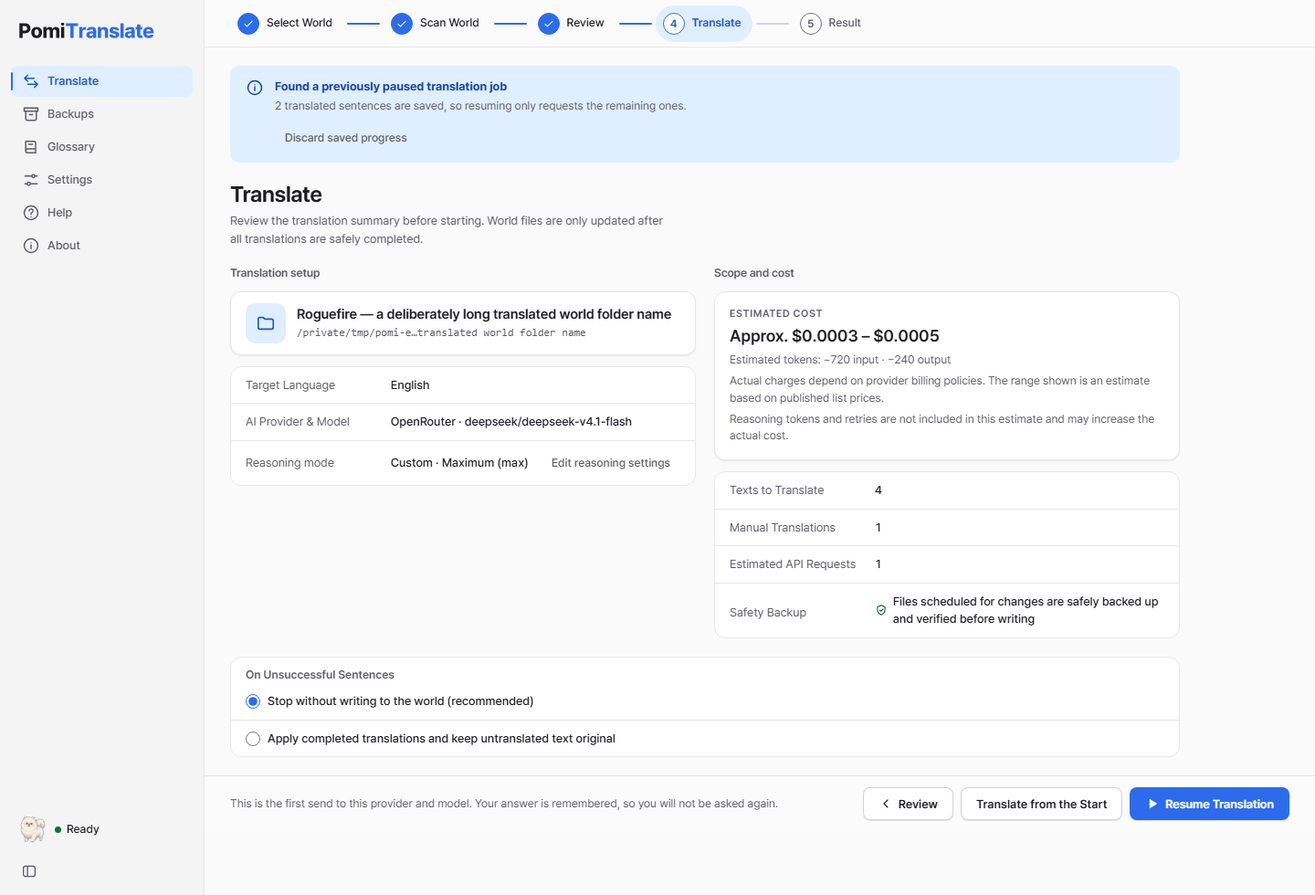
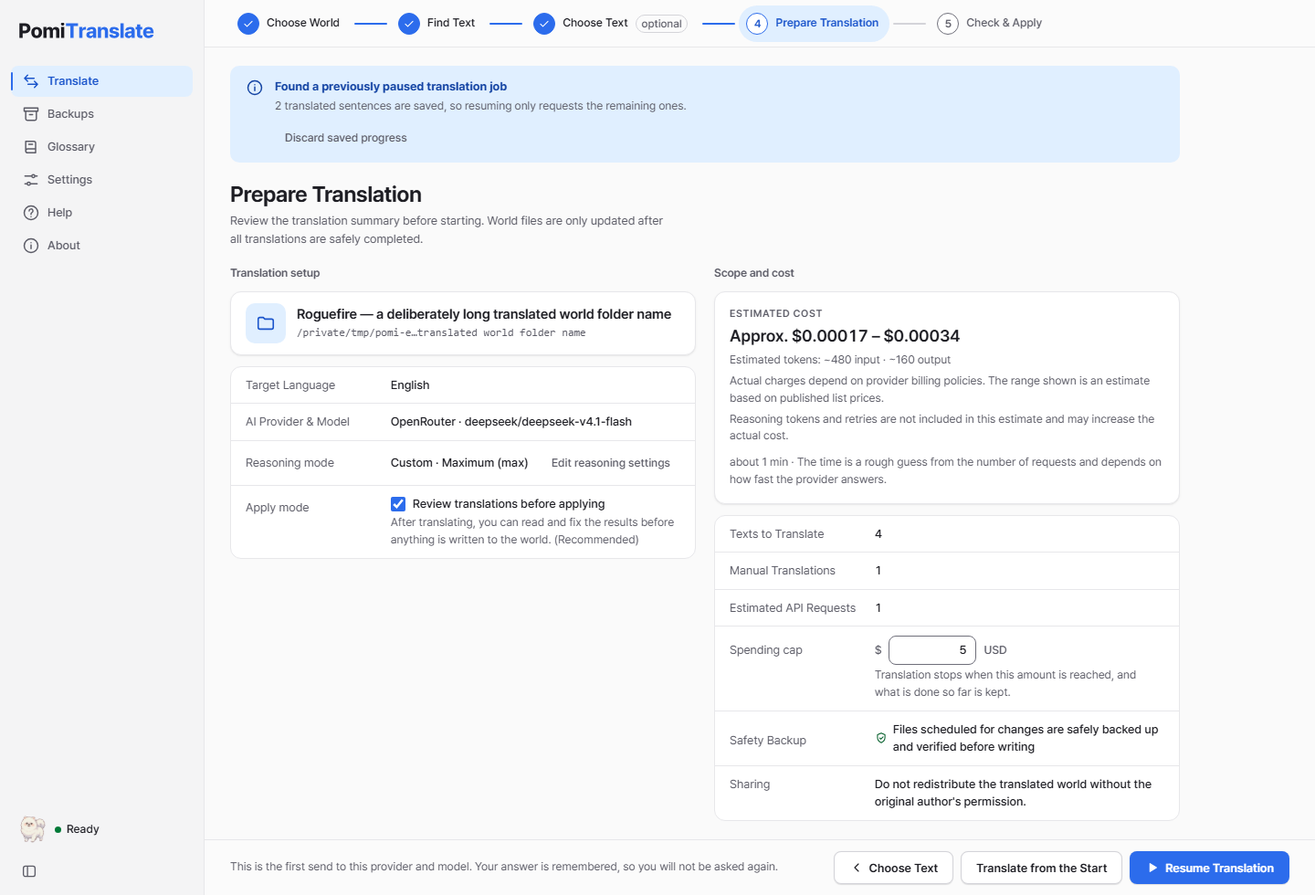
Docs: recapture the 12 screenshots from the merged UI; give the settings groups their own headings
The capture script follows the merged step names and settings tabs, and all
four languages are captured in one run (Windows 10 / Playwright Chromium, no
external requests), so the manifest now records a single capture. The
screenshots showed two duplicated headings in Settings: the style group's
heading was the same text as its first field, and the zh price group heading
repeated the input-price label. Each group now has its own heading in
ko/en/ja/zh.

diff --git a/scripts/capture-docs.playwright.js b/scripts/capture-docs.playwright.js
@@ -3,17 +3,22 @@
 // The preview entry is synthetic: never read credentials or press Start translation.
 async (page) => {
   const settle = async () => {
+    // Park the pointer on an empty part of the toolbar so no hover colour lands in the shot.
+    await page.mouse.move(1000, 26);
     await page.evaluate(async () => {
       await document.fonts.ready;
       await new Promise((resolve) => requestAnimationFrame(() => requestAnimationFrame(resolve)));
       await Promise.all(document.getAnimations().filter((animation) => animation.effect?.getTiming().iterations !== Infinity).map((animation) => animation.finished.catch(() => {})));
     });
   };
+  // Names come from the UI catalog (src/lib/i18n/{ko,en,ja,zh}.ts): nav.workspace, nav.settings, step.review, step.run,
+  // settings.tab.translate, settings.advanced.title, settings.reasoning.custom, common.save. `manual` is the synthetic
+  // translation of the second fixture row (tests/frontend/tauri-fixture-init.js).
   const locales = {
-    ko: { review: '후보 검토', settings: '환경 설정', workflow: '번역 작업', run: '번역 진행', custom: '직접 설정', save: '저장', manual: '잃어버린 열쇠 상점' },
-    en: { review: 'Review', settings: 'Settings', workflow: 'Translate', run: 'Translate', custom: 'Custom', save: 'Save', manual: 'The Lost Key Shop' },
-    ja: { review: '候補の確認', settings: '設定', workflow: '翻訳作業', run: '翻訳実行', custom: '指定する', save: '保存', manual: '失われた鍵の店' },
-    zh: { review: '候选文本检查', settings: '设置', workflow: '翻译', run: '翻译', custom: '自定义', save: '保存', manual: '失落的钥匙商店' },
+    ko: { workflow: '번역 작업', settings: '환경 설정', review: '번역할 문장 고르기', run: '번역 준비', tab: '번역', advanced: '고급 번역 옵션', custom: '직접 설정', save: '저장', manual: '잃어버린 열쇠 상점' },
+    en: { workflow: 'Translate', settings: 'Settings', review: 'Choose Text', run: 'Prepare Translation', tab: 'Translation', advanced: 'Advanced translation options', custom: 'Custom', save: 'Save', manual: 'The Lost Key Shop' },
+    ja: { workflow: '翻訳作業', settings: '設定', review: '翻訳する文を選ぶ', run: '翻訳の準備', tab: '翻訳', advanced: '翻訳の詳細オプション', custom: '指定する', save: '保存', manual: '失われた鍵の店' },
+    zh: { workflow: '翻译', settings: '设置', review: '选择要翻译的文本', run: '翻译准备', tab: '翻译', advanced: '高级翻译选项', custom: '自定义', save: '保存', manual: '失落的钥匙商店' },
   };
   const externalRequests = [];
   const onRequest = (request) => {
@@ -27,23 +32,31 @@ async (page) => {
       await page.goto(`http://127.0.0.1:5199/tests/frontend/preview.html?scenario=review&model=deepseek/deepseek-v4.1-flash&locale=${locale}&theme=light`);
       await page.locator('.boot').waitFor({ state: 'hidden' });
       if (await page.locator('html').getAttribute('lang') !== locale) throw new Error(`Wrong document language: ${locale}`);
-      await page.locator('header nav').getByRole('button', { name: new RegExp(`^${labels.review}`) }).click();
-      await page.locator('tr[data-index="1"]').click();
+      const steps = page.getByRole('navigation').filter({ has: page.getByRole('button', { name: new RegExp(`^${labels.review}`) }) });
+      await steps.getByRole('button', { name: new RegExp(`^${labels.review}`) }).click();
+      await page.locator('[data-index="1"]').click();
       await page.locator('#manual-translation').waitFor({ state: 'visible' });
       if (await page.locator('#manual-translation').inputValue() !== labels.manual) throw new Error(`Wrong manual translation: ${locale}`);
       await settle();
       await page.screenshot({ path: `docs/images/locales/${locale}/review.png` });
 
       await page.locator('.sidebar').getByRole('button', { name: labels.settings, exact: true }).click();
+      await page.getByRole('tab', { name: labels.tab, exact: true }).click();
+      const advanced = page.getByRole('button', { name: new RegExp(`^${labels.advanced}`) });
+      if (await advanced.getAttribute('aria-expanded') !== 'true') await advanced.click();
       await page.getByRole('radio', { name: labels.custom, exact: true }).check();
       await page.locator('#openrouter-reasoning').selectOption('max');
-      await page.locator('main').evaluate((element) => { element.scrollTop = 0; });
+      await page.locator('#translate-advanced').evaluate((element) => {
+        const main = element.closest('main');
+        main.scrollTop += element.getBoundingClientRect().top - main.getBoundingClientRect().top - 24;
+      });
       await settle();
       await page.screenshot({ path: `docs/images/locales/${locale}/settings.png` });
       await page.getByRole('button', { name: labels.save, exact: true }).click();
       await page.locator('.sidebar').getByRole('button', { name: labels.workflow, exact: true }).click();
-      await page.locator('header nav').getByRole('button', { name: new RegExp(`^${labels.run}`) }).click();
-      await page.locator('#summary-title').waitFor({ state: 'visible' });
+      await steps.getByRole('button', { name: new RegExp(`^${labels.run}`) }).click();
+      // The recommended $5 cap: it is the button of the unset-cap notice, and setting it makes the whole page fit above the action bar.
+      await page.getByRole('button', { name: /5\.00/ }).click();
       await page.locator('.toast').waitFor({ state: 'hidden' });
       await page.locator('main').evaluate((element) => { element.scrollTop = 0; });
       await settle();
@@ -53,7 +66,7 @@ async (page) => {
       if (await page.evaluate(() => document.documentElement.scrollWidth > innerWidth + 1)) throw new Error(`Horizontal overflow: ${locale}`);
     }
     if (externalRequests.length) throw new Error(`Unexpected external requests: ${externalRequests.join(', ')}`);
-    return { locales: Object.keys(locales), screenshots: 9, externalRequests: 0, paidRequests: 0, viewport: '1440x980' };
+    return { locales: Object.keys(locales), screenshots: 12, externalRequests: 0, paidRequests: 0, viewport: '1440x980' };
   } finally {
     page.off('request', onRequest);
   }

diff --git a/src/lib/i18n/zh.ts b/src/lib/i18n/zh.ts
@@ -510,6 +510,7 @@ export const zh: Record<MessageKey, string> = {
   "settings.language.title": "语言与语气",
   "settings.language.target": "目标语言",
   "settings.language.targetHelp": "例如：中文、English、日本語",
+  "settings.style.title": "翻译风格",
   "settings.style.label": "语气与风格预设",
   "settings.style.neutral": "标准 / 自然（推荐）",
   "settings.style.casual": "随意 / 对话式",
@@ -1631,7 +1632,7 @@ export const zh: Record<MessageKey, string> = {
   "glossary.warning": "请检查 {count} 个不符合术语规则的句子。",
   "translationReview.state.glossaryMismatch": "术语检查",
   "translationReview.state.glossaryMismatch.label": "需要检查术语",
-  "settings.price.title": "输入价格（USD / 1M tokens）",
+  "settings.price.title": "手动输入价格（USD / 1M tokens）",
   "settings.price.subtitle": "仅对所选提供商和模型生效。",
   "settings.price.input": "输入价格（USD / 1M tokens）",
   "settings.price.output": "输出价格（USD / 1M tokens）",

diff --git a/src/lib/i18n/ja.ts b/src/lib/i18n/ja.ts
@@ -510,6 +510,7 @@ export const ja: Record<MessageKey, string> = {
   "settings.language.title": "言語と文体",
   "settings.language.target": "翻訳先言語",
   "settings.language.targetHelp": "例: 日本語、한국어、English",
+  "settings.style.title": "翻訳の文体",
   "settings.style.label": "基本文体プリセット",
   "settings.style.neutral": "標準・自然（推奨）",
   "settings.style.casual": "親しみやすい会話調",

diff --git a/src/lib/i18n/en.ts b/src/lib/i18n/en.ts
@@ -510,6 +510,7 @@ export const en: Record<MessageKey, string> = {
   "settings.language.title": "Language & Tone",
   "settings.language.target": "Target Language",
   "settings.language.targetHelp": "e.g. 한국어, English, 日本語",
+  "settings.style.title": "Translation style",
   "settings.style.label": "Tone & Style Preset",
   "settings.style.neutral": "Standard / Natural (Recommended)",
   "settings.style.casual": "Casual / Conversational",

diff --git a/src/lib/i18n/ko.ts b/src/lib/i18n/ko.ts
@@ -510,6 +510,7 @@ export const ko = {
   "settings.language.title": "번역 언어 및 문체",
   "settings.language.target": "도착 언어 (번역 대상 언어)",
   "settings.language.targetHelp": "예: 한국어, English, 日本語",
+  "settings.style.title": "번역 문체",
   "settings.style.label": "기본 문체",
   "settings.style.neutral": "표준/자연스러움 (권장)",
   "settings.style.casual": "친근함/대화체",

diff --git a/src/components/settings/TranslateTab.svelte b/src/components/settings/TranslateTab.svelte
@@ -254,7 +254,7 @@
   </div>
 
   <div class="sf-group" id="style-settings">
-    <h3>{t('settings.style.label')}</h3>
+    <h3>{t('settings.style.title')}</h3>
     <div class="sf-fields sf-two">
       <div class="sf-field">
         <label class="sf-label" for="style-preset">{t('settings.style.label')}</label>

diff --git a/docs/images/README.md b/docs/images/README.md
@@ -1,17 +1,15 @@
 # Documentation screenshots / 소개용 화면
 
-2026-10-23 현재 Svelte 제품 UI를 Windows 10의 Playwright/Chromium으로 한국어·영어·일본어에서 캡처했고(2026-10-02 화면은 환경 설정이 "번역"·"앱" 두 부분으로 나뉘기 전, 용어집이 생기기 전의 것이었습니다), 중국어(간체) 3장은 2026-10-04 macOS의 Playwright/Chromium 캡처입니다. 모든 언어가 동일한 합성 fixture와 1440×980 viewport, light theme을 사용했습니다. 화면을 다시 그린 목업이 아닙니다. UI의 번역된 버튼·제목·입력 안내와 언어별 수동 번역 예시를 확인했습니다.
+2026-10-24 병합된 Svelte 제품 UI(`improve/commercial-readiness`에 main의 UX 개편과 리뷰 수정 WIP를 합친 소스)를 Windows 10의 Playwright/Chromium으로 한국어·영어·일본어·중국어(간체) 네 언어에서 한 번에 캡처했습니다. 모든 언어가 동일한 합성 fixture와 1440×980 viewport, light theme을 사용했습니다. 화면을 다시 그린 목업이 아닙니다. UI의 번역된 버튼·제목·입력 안내와 언어별 수동 번역 예시를 확인했습니다.
 
-**2026-10-24 병합 주의:** `improve/commercial-readiness`에 main의 2026-10-04 UX 개편과 2026-10-11 리뷰 수정 WIP를 합쳤습니다. 한국어·영어·일본어 화면은 병합 전 commercial-readiness UI이고 중국어 화면은 병합 전 main의 UX 개편 UI입니다. 따라서 이 12장은 병합된 UI와 일치하지 않을 수 있으며, 병합된 UI가 안정되면 [localization.md](../localization.md)의 절차로 네 언어를 함께 다시 캡처하고 manifest를 갱신해야 합니다.
-
-Captured from the current Svelte UI with synthetic data. These are browser screenshots, not evidence of native installation, actual provider usage or support for a specific model. The Korean, English and Japanese screens were captured on 2026-10-23 and the Simplified Chinese screens on 2026-10-04 (see the merge note above and the `captures` list in the manifest).
+Captured from the merged Svelte UI with synthetic data, all four languages in one run on 2026-10-24 (Windows 10, Playwright Chromium). These are browser screenshots, not evidence of native installation, actual provider usage or support for a specific model. Earlier captures (Korean/English/Japanese from 2026-10-23 and Simplified Chinese from 2026-10-04) came from the two pre-merge UIs and were replaced; the manifest's `captures` list now records one date, environment and source hash for all twelve.
 
 - Entry: `/tests/frontend/preview.html?scenario=review&model=deepseek/deepseek-v4.1-flash&locale={ko|en|ja|zh}&theme=light`.
-- `review.png`: candidate review / 후보 검색·직접 번역 편집.
-- `settings.png`: Settings, Translation tab: provider, model and custom reasoning / 환경 설정 "번역" 탭: 제공사·모델·직접 추론·저장되지 않은 변경. 모델 목록 불러오기 단추와 번역/앱 탭, 하단 저장 영역이 보입니다.
-- `run.png`: pre-run confirmation, with the saved-progress notice of an interrupted job / 추론·요청 수·추정 비용·외부 전송 안내와 이어하기 안내. 번역 시작은 누르지 않았습니다.
+- `review.png`: step 3, choose text to translate, with one row selected and its custom translation visible / 3단계 "번역할 문장 고르기": 한 문장을 고르고 직접 번역을 입력한 모습.
+- `settings.png`: Settings, Translation tab, "Advanced translation options" open with Custom reasoning (max) selected and the unsaved-changes bar / 환경 설정 "번역" 탭의 "고급 번역 옵션": 추론 방식 "직접 설정"·최대 강도와 저장하지 않은 변경 표시줄.
+- `run.png`: step 4, prepare translation (not started), with the interrupted-work notice, the $5 cost limit, estimate and safety backup / 4단계 "번역 준비": 이어하기 안내, 비용 한도 US$5, 예상 비용, 안전 백업. 번역 시작은 누르지 않았습니다.
 - Source world names, paths, models, prices and saved-key badges are synthetic. No real keys or private worlds were read. Foreign source strings and technical IDs remain original.
-- Capture waited for fonts, page transitions and save notifications. External requests0, paid requests0, scan/translation/restore jobs0; viewport overflow0. Three earlier Korean URLs are refreshed aliases of this capture.
+- Capture waited for fonts, page transitions and save notifications. External requests 0, paid requests 0, scan/translation/restore jobs 0; viewport overflow 0. Three earlier Korean URLs are refreshed aliases of this capture.
 
 ## Language gallery / 언어별 화면
 
@@ -24,21 +22,21 @@ Captured from the current Svelte UI with synthetic data. These are browser scree
 
 ## Capture manifest / 파일 정보
 
-All screenshots are 1440×980. Source-input hash (of the ko/en/ja capture), per-capture dates, aliases and PNG hashes are recorded in [manifest.json](manifest.json). Regeneration commands and scope are in [localization.md](../localization.md).
+All screenshots are 1440×980. Source-input hash, the capture date and environment (`captures`), aliases and PNG hashes are recorded in [manifest.json](manifest.json). Regeneration commands and scope are in [localization.md](../localization.md).
 
 | File | UI locale | Bytes | SHA-256 |
 | --- | --- | --- | --- |
[24 lines of base64/hex data omitted]
 
 `review.png`, `settings.png`, `run.png` at this directory's root are byte-identical aliases of `locales/ko/` for existing links. General screenshots, traces, reports, worlds, credentials and caches stay ignored under `output/`. Only these curated synthetic documentation screenshots are intentionally tracked.

diff --git a/docs/localization.md b/docs/localization.md
@@ -56,8 +56,8 @@ node scripts/update-docs-image-manifest.mjs
 playwright-cli --session=pomi-l10n close
 ```
 
-캡처 entry는 `locale=ko|en|ja|zh`를 검증하고(`scripts/capture-docs.playwright.js`의 언어 표에도 zh가 있습니다), 각 언어의 UI·도착 언어·합성 수동 번역을 초기화합니다. 언어 전환이 실제 번역 대상의 지원을 확장한다는 뜻은 아닙니다. 캡처는 Review→Settings→Run까지만 이동하며 스캔·번역·복원을 시작하지 않습니다. 글꼴·화면 전환·저장 알림이 끝난 뒤 찍고 외부 요청·실행 요청·가로 overflow를 확인합니다. 파일 생성 후 모든 화면을 직접 검토해 빈 화면·잘림·비밀·개인 경로를 확인합니다.
+캡처 entry는 `locale=ko|en|ja|zh`를 검증하고(`scripts/capture-docs.playwright.js`의 언어 표에도 zh가 있습니다), 각 언어의 UI·도착 언어·합성 수동 번역을 초기화합니다. 언어 전환이 실제 번역 대상의 지원을 확장한다는 뜻은 아닙니다. 캡처는 "번역할 문장 고르기"(3단계)에서 한 문장을 고르고 → 환경 설정 "번역" 탭의 "고급 번역 옵션"에서 추론 방식 "직접 설정"·최대 강도를 고른 뒤 저장하고 → "번역 준비"(4단계)에서 권장 US$5 비용 한도를 설정하는 데까지만 이동하며 스캔·번역·복원을 시작하지 않습니다. 단추·탭·단계 이름은 UI 카탈로그(`src/lib/i18n/{ko,en,ja,zh}.ts`)의 문구로 역할(role)과 이름을 찾으므로, 카탈로그 문구나 화면 구성이 바뀌면 스크립트 상단의 언어 표도 함께 고칩니다. 글꼴·화면 전환·저장 알림이 끝나고 포인터를 빈 곳으로 옮긴 뒤 찍고 외부 요청·실행 요청·가로 overflow를 확인합니다. 파일 생성 후 모든 화면을 직접 검토해 빈 화면·잘림·비밀·개인 경로를 확인합니다.
 
-[`docs/images/manifest.json`](images/manifest.json)은 PNG 12개(4개 언어×3) hash, UI/fixture/lock 입력 hash, 캡처 날짜·환경(`captures`)과 한국어 캡처의 기존 URL 3개 별칭을 기록합니다. 소개 화면은 **합성 데이터의 브라우저 캡처**이며 최신 native·실제 provider·설치 검증의 증거가 아닙니다. 과거 PASS를 이번 언어 작업의 결과로 복사하지 않습니다. 2026-10-24 병합 직후에는 한국어·영어·일본어(2026-10-23, 병합 전 commercial-readiness UI)와 중국어(2026-10-04, 병합 전 main UI)의 캡처 출처가 다르므로, 병합된 UI가 안정되면 12장을 모두 다시 캡처해 manifest를 갱신합니다.
+[`docs/images/manifest.json`](images/manifest.json)은 PNG 12개(4개 언어×3) hash, UI/fixture/lock 입력 hash, 캡처 날짜·환경(`captures`)과 한국어 캡처의 기존 URL 3개 별칭을 기록합니다. 소개 화면은 **합성 데이터의 브라우저 캡처**이며 최신 native·실제 provider·설치 검증의 증거가 아닙니다. 과거 PASS를 이번 언어 작업의 결과로 복사하지 않습니다. 2026-10-24에 병합된 UI에서 12장을 모두 한 번에 다시 캡처했고(Windows 10 / Playwright Chromium), `captures`는 네 언어 모두 같은 날짜·환경·입력 hash 한 항목입니다. 병합 전에 출처가 달랐던 한국어·영어·일본어(2026-10-23)와 중국어(2026-10-04) 캡처는 교체했습니다. 현재 기준은 [이미지 안내](images/README.md)와 manifest입니다.
 
-`playwright-cli`가 없으면 같은 스크립트 본문(`async (page) => {...}`)을 `@playwright/test`의 Chromium에서 실행해도 됩니다. 화면 PNG만 다시 찍었다면 SVG 생성은 `--check`로 최신인지만 확인하고 공유 이미지·안내 카드 PNG는 다시 렌더하지 않으며, `update-docs-image-manifest.mjs`가 고쳐 쓰는 `assets/localization-manifest.json`은 그 PNG를 다시 렌더하지 않았다면 되돌립니다(다른 OS 글꼴로 이유 없이 바뀌는 것을 막습니다). 이 스크립트는 `docs/images/manifest.json`의 `environment`를 `macOS / Playwright Chromium`으로 고정해 적으므로 다른 OS에서 찍었다면 실제 환경으로 고칩니다.
+`playwright-cli`가 없으면 같은 스크립트 본문(`async (page) => {...}`)을 `@playwright/test`의 Chromium에서 실행해도 됩니다. 화면 PNG만 다시 찍었다면 SVG 생성은 `--check`로 최신인지만 확인하고 공유 이미지·안내 카드 PNG는 다시 렌더하지 않으며, `update-docs-image-manifest.mjs`가 고쳐 쓰는 `assets/localization-manifest.json`은 그 PNG를 다시 렌더하지 않았다면 되돌립니다(다른 OS 글꼴로 이유 없이 바뀌는 것을 막습니다). `update-docs-image-manifest.mjs`는 `environment`를 실행한 OS에서 알아내 적습니다(`Windows 10 / Playwright Chromium`처럼. 다른 값으로 적으려면 `POMI_CAPTURE_ENVIRONMENT`를 지정). `assets/localization-manifest.json`의 렌더 날짜·환경은 카드 PNG를 다시 렌더하고 `--assets-rendered`를 줄 때만 갱신하므로 화면 PNG만 다시 찍었을 때 되돌릴 필요가 없습니다.

diff --git a/docs/follow-up-work.md b/docs/follow-up-work.md
@@ -6,7 +6,7 @@
 
 ## 지금 할 순서 (2026-10-24 병합 기준)
 
-0. **MERGE-2026-10-24 — 병합된 소스 검증(최우선).** 2026-10-11 리뷰 수정 WIP 3개(core-safety·native-security·ui-ux)와 main의 UX 개편이 2026-10-24에 `improve/commercial-readiness`에 병합됐다([병합 기록](history/merge-main-wip-2026-10-24.md), [WIP 인계](history/review-fixes-pause-2026-10-11.md)). **2026-10-24 병합된 소스에서 검증됨**(verify:local 69/69, browser 419 PASS, Windows 설치본 E2E, 독립 리뷰 수정; [기록](history/merge-main-wip-2026-10-24.md)). 남은 것은 소개 화면 12장 재캡처뿐이다. 아래는 원래 순서: 순서: 소스 안정화 → `pnpm verify:plan`으로 계획 확인 → 관련 검사(Python 전체·frontend·browser·`cargo test`) → WIP가 남긴 일(core-safety 테스트 실행과 R8·R10 회귀 테스트, ui-ux browser spec 갱신·접근성 확인, 새 오류 코드 문구, ja/zh 용어) → 데이터 손실·보안이 걸린 core·native 변경의 독립 리뷰 → 소개 화면 12장 재캡처 → sidecar 재빌드 후 native 확인. 이것이 끝나기 전에는 아래 1번 이후의 "확인" 항목을 병합된 앱의 PASS로 쓰지 않는다.
+0. **MERGE-2026-10-24 — 병합된 소스 검증(최우선).** 2026-10-11 리뷰 수정 WIP 3개(core-safety·native-security·ui-ux)와 main의 UX 개편이 2026-10-24에 `improve/commercial-readiness`에 병합됐다([병합 기록](history/merge-main-wip-2026-10-24.md), [WIP 인계](history/review-fixes-pause-2026-10-11.md)). **2026-10-24 병합된 소스에서 검증됨**(verify:local 69/69, browser 419 PASS, Windows 설치본 E2E, 독립 리뷰 수정; [기록](history/merge-main-wip-2026-10-24.md)). 소개 화면 12장 재캡처도 끝났다. 아래는 원래 순서: 순서: 소스 안정화 → `pnpm verify:plan`으로 계획 확인 → 관련 검사(Python 전체·frontend·browser·`cargo test`) → WIP가 남긴 일(core-safety 테스트 실행과 R8·R10 회귀 테스트, ui-ux browser spec 갱신·접근성 확인, 새 오류 코드 문구, ja/zh 용어) → 데이터 손실·보안이 걸린 core·native 변경의 독립 리뷰 → 소개 화면 12장 재캡처 → sidecar 재빌드 후 native 확인. 이것이 끝나기 전에는 아래 1번 이후의 "확인" 항목을 병합된 앱의 PASS로 쓰지 않는다.
 
 [main 통합·잔여 작업 대조](history/main-integration-2026-10-02.md)에서 `e97261c`의 코드와 문서를 대조했다. 도움말·초기화·화면 모드·업데이트 연결까지 구현됐으며, 이전 Linux 검증 기록과 이번 코드 확인을 구분한다. 아래는 실제로 남은 작업의 권장 순서다. 아래 표의 ID와 완료 조건이 기준이다.
 
@@ -38,7 +38,7 @@
 ## 이번에 완료한 범위
 
 - [x] 2026-10-23 상용 수준 점검(commercial-readiness): 쓰기 저널·sidecar 감독·응답 계약·진단 정리·자격 증명 경로·종료 의도 경로·용어집·최신 component·chunk coverage·가격표. 병합 전 소스 기준 `pnpm verify:local` 60/60, Windows native·Docker Linux. [기록](history/commercial-readiness-2026-10-23.md)
-- [x] 2026-10-24 main UX 개편 + 리뷰 수정 WIP 3개 병합: 병합됨, 병합된 소스에서 검증됨(위 0번). 소개 화면 재캡처는 별도. [기록](history/merge-main-wip-2026-10-24.md)
+- [x] 2026-10-24 main UX 개편 + 리뷰 수정 WIP 3개 병합: 병합됨, 병합된 소스에서 검증됨(위 0번). 소개 화면 12장도 병합된 UI로 다시 캡처했다. [기록](history/merge-main-wip-2026-10-24.md)
 - [x] 2026-10-04 상용 수준 UX 개편(서명 제외): 적용 전 검토·수정 재적용·실패만 재시도·비용 한도·용어집·설정 도우미·설정 탭·닫기 보호·완료 알림·창 복원·중국어 UI, 독립 검토 R1/R2 지적 수정. check 0/0·frontend108·Python 전체·Rust63·browser260. [기록](history/ux-overhaul-2026-10-04.md)
 - [x] 2026-10-02 후속: 도움말 화면·메뉴(F1/⌘?), 첫 실행 시작 안내, 앱 안 오픈소스 라이선스(생성기), Minecraft 비공식 고지 원문, 외부 링크를 기본 브라우저로(허용 목록), 앱 안 업데이트(서명 키가 있을 때만 설치), 데이터 위치 표시·열기, 두 단계 초기화(백업 유지), 설정 파일 fsync·사본·손상 복구, 테마·안내 동의를 설정 파일로 이전. Python23/Rust29/frontend62/browser108. [업데이트·데이터](updates-and-data.md)
 - [x] 2026-10-02 화면 모드: 설정의 시스템/라이트/다크 미리보기 타일(즉시 적용·설정 파일 저장·작업 중이면 끝난 뒤 저장 재시도), 보기 → 화면 모드 메뉴와 체크 표시, OS 변경 실시간 추적, `theme-boot.js`와 Rust 시작 시 창 배경으로 다크 시작 깜빡임 제거, 다크 정보 화면 로고, 전 화면 다크 axe. Rust30/browser114. macOS·Windows 실제 창에서 깜빡임·타이틀바 색은 UX-NATIVE-01에서 확인.

diff --git a/docs/history/merge-main-wip-2026-10-24.md b/docs/history/merge-main-wip-2026-10-24.md
@@ -52,5 +52,5 @@
 
 - WIP 3개가 인계 문서에 남긴 "남은 일"이 병합 뒤에도 필요한지: core-safety의 전체 Python suite 실행과 R8·R10 회귀 테스트, ui-ux의 browser spec 갱신과 접근성 확인, 새 오류 코드 문구, ja/zh 용어 점검.
 - `docs/support-matrix.md`는 fixture 결과로 생성하는 문서다. 1.20.3–1.21.4 JSON 문자열 컴포넌트(`json_string_tag`, `tests/test_text_components.py`) 행은 그 fixture를 병합된 소스에서 실행한 뒤에 더한다.
-- 소개 화면 12장 재캡처와 manifest 갱신(병합 커밋 뒤 별도 커밋).
+- ~~소개 화면 12장 재캡처와 manifest 갱신~~ 2026-10-24 병합 커밋 뒤 별도 커밋에서 끝냈다: 병합된 UI에서 ko/en/ja/zh 12장을 한 번에 다시 찍었고(Windows 10 / Playwright Chromium, 외부 요청 0), 캡처 스크립트를 새 단계 이름에 맞췄다. 캡처에서 보인 설정 화면의 중복 제목(문체 묶음 제목과 첫 칸 이름이 같음, 중국어 단가 묶음 제목과 입력 칸 이름이 같음)도 고쳤다.
 - native 확인(UX-NATIVE-01)과 각 OS 확인은 [추후 작업](../follow-up-work.md)을 따른다.
